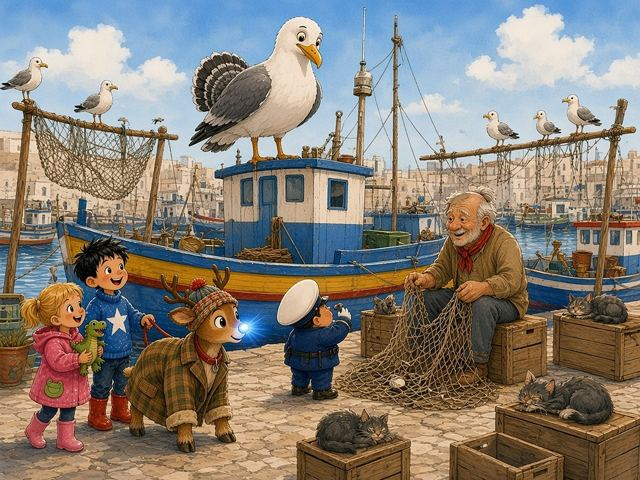
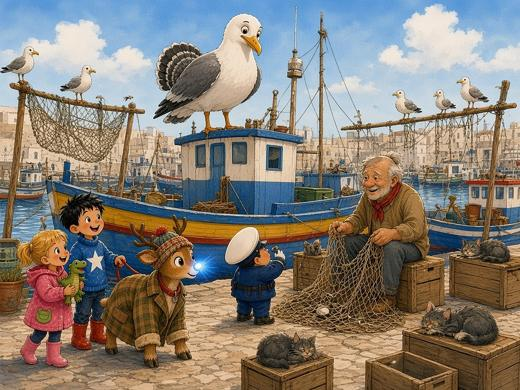
14 livelli, uno per ogni capitolo del libro

diff --git a/gioco.js b/gioco.js
@@ -19,8 +19,8 @@ window.addEventListener('resize', resize); resize();
 
 // ---------- immagini ----------
 const IMG = {};
-const SRC = { bri: 'assets/briciola.png', gab: 'assets/gabbiano.png', sli: 'assets/slitta.png', cop: 'assets/copertina.jpg',
-  c1: 'assets/cap06.jpg', c2: 'assets/cap07.jpg', c3: 'assets/cap13.jpg' };
+const SRC = { bri: 'assets/briciola.png', gab: 'assets/gabbiano.png', sli: 'assets/slitta.png', cop: 'assets/copertina.jpg' };
+for (let i = 1; i <= 14; i++) SRC['c' + i] = 'assets/cap' + String(i).padStart(2, '0') + '.jpg';
 let loaded = 0; const total = Object.keys(SRC).length;
 for (const k in SRC) { const im = new Image(); im.onload = im.onerror = () => loaded++; im.src = SRC[k]; IMG[k] = im; }
 const ok = im => im && im.complete && im.naturalWidth > 0;
@@ -97,21 +97,58 @@ function wrap(s, maxW, size, weight = 'normal') {
 }
 
 // ---------- livelli ----------
+const LETTERE = {
+  lalla: { from: 'Un foglietto a righe', body: 'Caro Babbo Natale, caro Babbo Natale,\nun amico dinosauro per Gino. Per Gino.\nLalla, 5 anni (5 anni)' },
+  pasq: { from: 'Una lettera ingiallita', body: 'Caro Babbo Natale,\nvorrei un campanello per la mia bicicletta, così tutti mi sentono arrivare.\nPasqualino, 7 anni' },
+  bri: { from: 'Un biglietto scritto con uno zoccolo', body: 'Dall’ultimo posto a sinistra si vede tutto il mondo.\nStanotte guarderò la tua casa.\nLa tua amica Briciola' }
+};
+// un livello per ogni capitolo del libro
 const LEVELS = [
-  { name: 'Il porto', num: 1, img: 'c1', len: 5200, speed: 150, mode: 'day', gulls: 3, roof: [110, 190], chim: 0.55,
-    intro: 'Briciola è caduta a Torre Pinella e ha perso il sonaglio. Aiutala a volare sopra il porto: prendi le risate per far suonare il sonaglio e le cartellate del nonno. Attenta all’Ammiraglio e ai comignoli!',
-    letter: { from: 'Una lettera ingiallita', body: 'Caro Babbo Natale,\nvorrei un campanello per la mia bicicletta, così tutti mi sentono arrivare.\nPasqualino, 7 anni' },
+  { name: 'Un tonfo sulla pasticceria', mode: 'night', ground: 'case', gulls: 0, chim: 0.45, speed: 140,
+    intro: 'È la notte del 19 dicembre. Briciola fa il suo primo volo con la slitta… e cade! Prima del tonfo, prova a volare un po’ sopra i tetti di Torre Pinella.',
+    quote: '«Mi scusi tanto per il disturbo» disse Briciola. «Sono caduta.»' },
+  { name: 'Non è un cane', mode: 'night', ground: 'case', gulls: 0, chim: 0.5, speed: 145,
+    intro: 'Briciola ha il singhiozzo: ogni «hic!» la fa salire. Prendi le risate di Lalla e non svegliare tutto il paese!',
+    quote: '«È un cane» sussurrò Lalla. «È un cane.»' },
+  { name: 'Nonno Tonino non ci sente', mode: 'night', ground: 'case', gulls: 0, chim: 0.55, speed: 150,
+    intro: 'Il nonno ha scoperto tutto, ma fa finta di niente. Raccogli le cartellate: Briciola ne va matta!',
+    quote: 'Il nonno Tonino diventò improvvisamente sordo dall’orecchio sinistro.' },
+  { name: 'Il sonaglio perduto', mode: 'day', ground: 'case', gulls: 1, chim: 0.55, speed: 150,
+    intro: 'Il sonaglio è sparito! Cerca tra i tetti al sole. La signora Addolorata guarda tutto col binocolo…',
+    quote: '«Poi è arrivato l’Ammiraglio, e se l’è preso.»' },
+  { name: 'Un cane molto, molto grosso', mode: 'day', ground: 'case', gulls: 1, chim: 0.6, speed: 155, letter: 'lalla',
+    intro: 'Briciola è travestita da cane, con il cappotto dello zio Peppino. Attraversa il paese senza farti scoprire dal vigile Spinaci!',
+    quote: '«BAU» disse Briciola. Il vigile Spinaci non era per niente convinto.' },
+  { name: 'Il gabbiano che rubava le stelle', mode: 'day', ground: 'molo', gulls: 4, chim: 0.4, speed: 155,
+    intro: 'Al porto ci sono tanti gabbiani. Uno è grosso come un tacchino: è l’Ammiraglio! Stagli lontano.',
     quote: '«È lui» disse Briciola. «Lo sento. Ha qualcosa che mi appartiene.»' },
-  { name: 'Il campanile storto', num: 2, img: 'c2', len: 5600, speed: 165, mode: 'sunset', gulls: 5, roof: [130, 220], chim: 0.7,
-    intro: 'Il nido dell’Ammiraglio è in cima al campanile storto. Vola tra i tetti bianchi, i comignoli e i campanili. Più risate prendi, più il sonaglio fa tin!',
-    letter: { from: 'Un foglietto a righe', body: 'Caro Babbo Natale, caro Babbo Natale,\nun amico dinosauro per Gino. Per Gino.\nLalla, 5 anni (5 anni)' },
+  { name: 'Su per il campanile', mode: 'day', ground: 'case', towers: true, gulls: 4, chim: 0.5, speed: 160,
+    intro: 'Il nido dell’Ammiraglio è in cima al campanile storto. Vola tra i campanili e i comignoli!',
     quote: '«L’avete cacciato!» disse zi’ Nunzio. «In quarant’anni, nessuno ci era mai riuscito!»' },
-  { name: 'Mezzanotte sul molo', num: 3, img: 'c3', len: 5000, speed: 175, mode: 'night', gulls: 3, roof: [0, 0], chim: 0.5,
-    intro: 'È la notte della Vigilia. Tutto il paese è sul molo e la slitta di Babbo Natale sta arrivando. Prendi le ultime risate e porta Briciola al suo posto: l’ultimo a sinistra!',
-    letter: { from: 'Un biglietto scritto con uno zoccolo', body: 'Dall’ultimo posto a sinistra si vede tutto il mondo.\nStanotte guarderò la tua casa.\nLa tua amica Briciola' },
+  { name: 'Una telefonata dai Caraibi', mode: 'sunset', ground: 'case', gulls: 2, chim: 0.6, speed: 160,
+    intro: 'Stasera torna la mamma dal mare. Il cielo è rosa: raccogli le risate prima che faccia buio.',
+    quote: '«Tutto bene» disse Nico. «Non fa niente.»' },
+  { name: 'Il pesce più strano del mercato', mode: 'day', ground: 'molo', gulls: 4, chim: 0.45, speed: 165,
+    intro: 'È la mattina del mercato del pesce. Il sonaglio è da qualche parte sulla banchina…',
+    quote: '«I cani» disse il vigile Spinaci «non portano i campanelli da bicicletta.»' },
+  { name: 'Il presepe vivente più vivente del mondo', mode: 'night', ground: 'case', towers: true, gulls: 1, chim: 0.5, speed: 165,
+    intro: 'Briciola fa l’asinello nel presepe vivente. Se le viene il singhiozzo, vola davanti a tutti!',
+    quote: 'I bambini ridevano, e il sonaglio, sulla bicicletta del vigile, suonò da solo.' },
+  { name: 'Il segreto del vigile Spinaci', mode: 'day', ground: 'case', gulls: 2, chim: 0.6, speed: 170, letter: 'pasq',
+    intro: 'Il vigile ha un segreto, scritto in una vecchia lettera. Trovala tra i tetti!',
+    quote: 'Poi, per la prima volta in cinquant’anni, il vigile Spinaci rise.' },
+  { name: 'Il sonaglio che non suona', mode: 'sunset', ground: 'case', gulls: 2, chim: 0.65, speed: 170,
+    intro: 'Il sonaglio è tornato, ma è addormentato. Servono tante, tantissime risate!',
+    quote: '«Piangere» disse il nonno «è come impastare. E lievita sempre di notte.»' },
+  { name: 'Mezzanotte sul molo', mode: 'night', ground: 'molo', gulls: 3, chim: 0.5, speed: 175, letter: 'bri', finale: true,
+    intro: 'È la notte della Vigilia. Tutto il paese è sul molo e la slitta di Babbo Natale sta arrivando. Porta Briciola al suo posto: l’ultimo a sinistra!',
+    quote: '«Ogni Vigilia, a mezzanotte, guarda il mare. Ci sarà una luce azzurra, all’ultimo posto a sinistra.»' },
+  { name: 'Farina sulle spalle', mode: 'dawn', ground: 'case', gulls: 0, chim: 0.4, speed: 150, last: true,
+    intro: 'È la mattina di Natale e Torre Pinella è bianca di zucchero a velo. Un ultimo volo, per salutare tutti!',
     quote: '' }
 ];
-const BELL_TARGET = 40;
+LEVELS.forEach((l, i) => { l.roof = l.towers ? [130, 220] : [110, 195]; l.num = i + 1; l.img = 'c' + (i + 1); l.len = 2600 + (i % 3) * 200; l.letterObj = l.letter ? LETTERE[l.letter] : null; });
+const BELL_TARGET = 120;
 
 // ---------- stato ----------
 let state = 'loading', L = null, LI = 0, tWorld = 0, dist = 0, time = 0, timeScale = 1;
@@ -133,19 +170,19 @@ function buildLevel() {
   let x = -200;
   while (x < L.len + 2000) {
     const w = 90 + R() * 90;
-    if (L.mode === 'night') { houses.push({ x, w, h: 118, molo: true }); }
+    if (L.ground === 'molo') { houses.push({ x, w, h: 118, molo: true }); }
     else {
       const h = L.roof[0] + R() * (L.roof[1] - L.roof[0]);
-      const tower = L.mode === 'sunset' && x > 900 && R() < 0.07 && !houses.some(o => o.tower && x - o.x < 1200);
+      const tower = L.towers && x > 700 && R() < 0.07 && !houses.some(o => o.tower && x - o.x < 1200);
       houses.push({ x, w: tower ? 90 : w, h: tower ? 380 + R() * 30 : h, dome: !tower && R() < 0.18, tower, win: Math.floor(R() * 3), door: R() < 0.6, ger: R() < 0.4, col: R() < 0.5 ? '#2f74b5' : '#3c9a6a', R: R() });
     }
-    x += (houses[houses.length - 1].w) + (L.mode !== 'night' && R() < 0.25 ? 20 + R() * 30 : 0);
+    x += (houses[houses.length - 1].w) + (L.ground !== 'molo' && R() < 0.25 ? 20 + R() * 30 : 0);
   }
   // comignoli / lampioni
   for (const h of houses) {
     if (h.x < 500 || h.x > L.len - 200 || h.tower) continue;
     if (R() < L.chim) {
-      if (L.mode === 'night') chims.push({ x: h.x + h.w * (0.2 + R() * 0.6), w: 14, top: H - h.h - 120 - R() * 70, lamp: true });
+      if (L.ground === 'molo') chims.push({ x: h.x + h.w * (0.2 + R() * 0.6), w: 14, top: H - h.h - 120 - R() * 70, lamp: true });
       else chims.push({ x: h.x + 15 + R() * (h.w - 50), w: 30, top: H - h.h - 45 - R() * 75, base: H - h.h, lamp: false });
     }
   }
@@ -155,7 +192,7 @@ function buildLevel() {
   let letterPlaced = false;
   while (ix < L.len - 150) {
     const yPath = 300 + Math.sin(ix / 420 + LI) * 120 + Math.sin(ix / 157) * 30;
-    if (!letterPlaced && ix > letterAt) { items.push({ x: ix, y: clamp(yPath - 40, 170, 430), t: 'lettera', r: 26, got: false }); letterPlaced = true; ix += 160; continue; }
+    if (L.letterObj && !letterPlaced && ix > letterAt) { items.push({ x: ix, y: clamp(yPath - 40, 170, 430), t: 'lettera', r: 26, got: false }); letterPlaced = true; ix += 160; continue; }
     const kind = (k % 4 === 3) ? 'cart' : 'risata';
     const n = kind === 'risata' ? 3 : 1;
     for (let j = 0; j < n; j++) items.push({ x: ix + j * 58, y: clamp(yPath + (j - 1) * 12, 160, safeYAt(ix + j * 58) - 40), t: kind, r: kind === 'cart' ? 22 : 20, got: false });
@@ -200,6 +237,7 @@ function update(dt) {
   for (const p of pops) { p.t += dt; p.y -= 40 * dt; }
   pops = pops.filter(p => p.t < 1.1);
   if (state === 'ending') { updSnow(dt, 1); finale.t += dt; finale.x -= 140 * dt; finale.y -= 30 * dt; return; }
+  if (state === 'play' && L && L.mode === 'dawn') updSnow(dt, 0.6);
   if (state !== 'play' || overlay) return;
   bri.x = W * 0.3;
   if (bri.noseT > 0) { bri.noseT -= dt; if (bri.noseT <= 0) bri.nose = 'base'; }
@@ -237,8 +275,9 @@ function update(dt) {
     if (!g.hit && bri.hurt <= 0) { const dx = g.sx - bri.x, dy = g.yy - bri.y; if (dx * dx + dy * dy < 50 * 50) steal(g); }
   }
   if (dist >= L.len) {
-    if (LI < 2) { state = 'play'; overlay = { type: 'level' }; SFX.fanfare(); }
-    else { endPhase = 'molo'; endT = 0; }
+    if (L.finale) { endPhase = 'molo'; endT = 0; }
+    else if (L.last) { state = 'ending'; finale = { t: 0 }; SFX.fanfare(); }
+    else { state = 'play'; overlay = { type: 'level' }; SFX.fanfare(); }
   }
 }
 function bump(msg) {
@@ -263,7 +302,7 @@ function collect(it, ix) {
     cart++; score += 25; setNose('oro', 1.5); SFX.gnam();
     pops.push({ x: ix, y: it.y - 24, s: 'gnam!', t: 0, c: '#ffcf6b' });
   } else if (it.t === 'lettera') {
-    lettere++; score += 100; SFX.letter(); overlay = { type: 'letter', L: L.letter };
+    lettere++; score += 100; SFX.letter(); overlay = { type: 'letter', L: L.letterObj };
   }
 }
 function updEnd(dt) {
@@ -302,7 +341,7 @@ function updEnd(dt) {
     updSnow(dt, 1);
     sleigh.x -= 60 * dt * endT * 3; sleigh.y -= 40 * dt * endT * 2;
     bri.x = sleigh.gx = sleigh.x + 405 * sleigh.s; bri.y = sleigh.gy = sleigh.y + 172 * sleigh.s - 6; bri.s = sleigh.s * 0.6;
-    if (endT > 3.2) { state = 'ending'; finale = { t: 0, x: sleigh.x, y: sleigh.y, s: sleigh.s }; }
+    if (endT > 3.2) { overlay = { type: 'level' }; }
   }
 }
 function updSnow(dt, k) {
@@ -316,6 +355,7 @@ function sky() {
   const g = ctx.createLinearGradient(0, 0, 0, H);
   if (m === 'day') { g.addColorStop(0, '#5fb3e8'); g.addColorStop(0.6, '#bfe6fb'); g.addColorStop(1, '#eaf7ff'); }
   else if (m === 'sunset') { g.addColorStop(0, '#5a5ea8'); g.addColorStop(0.35, '#e58ba0'); g.addColorStop(0.7, '#ffc58a'); g.addColorStop(1, '#ffe7c4'); }
+  else if (m === 'dawn') { g.addColorStop(0, '#9fb8e8'); g.addColorStop(0.45, '#f7c3b0'); g.addColorStop(1, '#fff3df'); }
   else { g.addColorStop(0, '#070d2e'); g.addColorStop(0.6, '#1b2a63'); g.addColorStop(1, '#2c3d7a'); }
   ctx.fillStyle = g; ctx.fillRect(0, 0, W, H);
   if (m === 'night' || m === 'sunset') {
@@ -327,7 +367,7 @@ function sky() {
 }
 function cloud(x, y, s) { ctx.beginPath(); ctx.arc(x, y, 26 * s, 0, 7); ctx.arc(x + 30 * s, y - 14 * s, 32 * s, 0, 7); ctx.arc(x + 64 * s, y, 24 * s, 0, 7); ctx.rect(x, y, 64 * s, 24 * s); ctx.fill(); }
 function farLayer() {
-  const m = L.mode; const seaY = H - 230;
+  const m = L.mode === 'dawn' ? 'day' : L.mode; const seaY = H - 230;
   // mare
   const g = ctx.createLinearGradient(0, seaY, 0, H);
   if (m === 'day') { g.addColorStop(0, '#2a8fc4'); g.addColorStop(1, '#1b6ea3'); }
@@ -355,7 +395,7 @@ function boat(x, y, c) {
   ctx.fillStyle = '#fff'; ctx.fillRect(x + 24, y - 14 + b, 22, 14); ctx.fillStyle = '#5a4630'; ctx.fillRect(x + 34, y - 40 + b, 2, 26);
 }
 function nearLayer() {
-  const m = L.mode;
+  const m = L.mode === 'dawn' ? 'day' : L.mode; const sugar = L.mode === 'dawn';
   for (const h of houses) {
     const x = h.x - dist; if (x > W + 20 || x + h.w < -20) continue;
     const top = H - h.h;
@@ -375,6 +415,7 @@ function nearLayer() {
     }
     ctx.fillStyle = wall; ctx.fillRect(x, top, h.w + 1, h.h); ctx.fillStyle = side; ctx.fillRect(x + h.w - 12, top, 12, h.h);
     ctx.fillStyle = m === 'night' ? '#aab3d8' : '#efe7d6'; ctx.fillRect(x - 3, top - 6, h.w + 6, 8);
+    if (sugar) { ctx.fillStyle = '#ffffff'; rr(x - 5, top - 12, h.w + 10, 12, 6); ctx.fill(); }
     if (h.dome) { ctx.fillStyle = wall; ctx.beginPath(); ctx.arc(x + h.w / 2, top - 4, h.w * 0.28, Math.PI, 0); ctx.fill(); }
     const lit = m === 'night' || m === 'sunset';
     for (let i = 0; i <= h.win; i++) { const wx = x + 16 + i * 30; if (wx > x + h.w - 30) break; ctx.fillStyle = lit && (i + Math.floor(h.R * 5)) % 2 === 0 ? '#ffd27a' : h.col; rr(wx, top + 24, 16, 20, 7); ctx.fill(); }
@@ -456,7 +497,7 @@ function hud() {
   ctx.fillStyle = g; rr(bx, 56, Math.max(16, bw * bell / BELL_TARGET), 16, 8); ctx.fill();
   text('Sonaglio', bx + 8, 64, 11, '#1f3a7a', 'left', 'bold');
   bellIcon(W - 40, 62, bellRing);
-  text('Livello ' + L.num + ': ' + L.name, 16, 108, 15, '#fff', 'left', 'bold', 'rgba(10,20,60,0.7)', 4);
+  text(L.num + '. ' + L.name, 16, 150, 14, '#fff', 'left', 'bold', 'rgba(10,20,60,0.7)', 4);
   iconButton(W - 52, 94, 40, 'mute', () => setMuted(!muted));
   iconButton(W - 100, 94, 40, 'restart', () => { newGame(); });
 }
@@ -511,7 +552,7 @@ function scene() {
   if (sleigh) drawSleigh(sleigh, endPhase === 'away');
   drawBri(bri.x, bri.y, bri.ang, endPhase === 'away', bri.s || 0.5);
   drawParticles();
-  if (endPhase === 'away') drawSnow();
+  if (endPhase === 'away' || L.mode === 'dawn') drawSnow();
   if (flash > 0) { ctx.fillStyle = `rgba(120,170,255,${flash})`; ctx.fillRect(0, 0, W, H); }
 }
 function crowd() {
@@ -539,13 +580,13 @@ function titleScreen() {
   text('Un gioco di Natale', W / 2, py + 86, 18, '#1f3a7a', 'center', 'bold');
   text('dal libro di Antonino Campanella', W / 2, py + 110, 17, '#1f3a7a', 'center', 'normal');
   bigButton('Gioca!', W / 2, py + 165, 220, () => { audioInit(); newGame(); });
-  let ty = py + 218; for (const l of wrap('Tocca lo schermo (o premi spazio): Briciola fa «hic!» e vola su. Niente pubblicità, niente dati: solo Natale.', Math.min(400, W - 28) - 50, 14)) { text(l, W / 2, ty, 14, '#444', 'center', 'normal'); ty += 19; }
+  let ty = py + 218; for (const l of wrap('14 capitoli, 14 voli. Tocca lo schermo (o premi spazio): Briciola fa «hic!» e vola su. Niente pubblicità, niente dati.', Math.min(400, W - 28) - 50, 14)) { text(l, W / 2, ty, 14, '#444', 'center', 'normal'); ty += 19; }
   iconButton(W - 52, 14, 40, 'mute', () => setMuted(!muted));
 }
 function introScreen() {
   scene(); ctx.fillStyle = 'rgba(8,14,45,0.55)'; ctx.fillRect(0, 0, W, H);
   const pw = Math.min(420, W - 28), px = W / 2 - pw / 2, py = 70, ph = H - 140; panel(px, py, pw, ph);
-  text('Livello ' + L.num + ' di 3', W / 2, py + 40, 18, '#2e8b47');
+  text('Capitolo ' + L.num + ' di 14', W / 2, py + 40, 18, '#2e8b47');
   text(L.name, W / 2, py + 76, 32, '#d6283b');
   const im = IMG[L.img]; if (ok(im)) { const iw = pw - 60, ih = iw * im.naturalHeight / im.naturalWidth; const h2 = Math.min(ih, 240), w2 = h2 * im.naturalWidth / im.naturalHeight; ctx.save(); rr(W / 2 - w2 / 2, py + 102, w2, h2, 14); ctx.clip(); ctx.drawImage(im, W / 2 - w2 / 2, py + 102, w2, h2); ctx.restore(); }
   const lines = wrap(L.intro, pw - 60, 18); let y = py + 370;
@@ -565,7 +606,7 @@ function letterOverlay() {
 function levelOverlay() {
   ctx.fillStyle = 'rgba(8,14,45,0.55)'; ctx.fillRect(0, 0, W, H);
   const pw = Math.min(400, W - 28), px = W / 2 - pw / 2, py = 150, ph = 470; panel(px, py, pw, ph);
-  text('Livello superato!', W / 2, py + 50, 32, '#d6283b');
+  text('Capitolo superato!', W / 2, py + 50, 30, '#d6283b');
   text(L.name, W / 2, py + 88, 20, '#2e8b47');
   text('★ ' + score + ' punti', W / 2, py + 140, 26, '#c9781e');
   text('Risate: ' + risate + '   Cartellate: ' + cart + '   Lettere: ' + lettere + '/3', W / 2, py + 180, 16, '#333', 'center', 'normal');
@@ -574,7 +615,7 @@ function levelOverlay() {
 }
 function endingScreen() {
   // notte, slitta che si allontana, neve di zucchero a velo
-  L = LEVELS[2]; sky(); farLayer(); nearLayer();
+  L = LEVELS[12]; sky(); farLayer(); nearLayer();
   ctx.save(); const s = Math.min(0.5, W / 900);
   const span = W + 720 * s + 40, fx = W + 20 - ((finale.t * 80) % span), fy = 50 + Math.sin(finale.t * 1.3) * 10;
   if (ok(IMG.sli)) ctx.drawImage(IMG.sli, fx, fy, 720 * s, 239 * s);
@@ -583,7 +624,7 @@ function endingScreen() {
   drawSnow();
   const pw = Math.min(420, W - 28), px = W / 2 - pw / 2, py = 205, ph = 530; panel(px, py, pw, ph);
   text('Ce l’hai fatta!', W / 2, py + 48, 36, '#d6283b');
-  const l1 = wrap('Briciola è tornata al suo posto: l’ultimo a sinistra. E su Torre Pinella nevica zucchero a velo.', pw - 60, 18);
+  const l1 = wrap('Hai volato per tutti i 14 capitoli! Briciola è tornata al suo posto, l’ultimo a sinistra, e su Torre Pinella nevica zucchero a velo.', pw - 60, 18);
   let y = py + 94; for (const l of l1) { text(l, W / 2, y, 18, '#1f3a7a', 'center', 'normal'); y += 25; }
   text('★ ' + score + ' punti', W / 2, y + 22, 30, '#c9781e'); y += 60;
   text('Risate: ' + risate + '   Cartellate: ' + cart + '   Lettere: ' + lettere + '/3', W / 2, y, 16, '#333', 'center', 'normal'); y += 40;

diff --git a/README.md b/README.md
@@ -2,7 +2,7 @@
 
 Un mini gioco di Natale per bambini (5-10 anni) tratto dal libro **«Aiuto, è caduta una renna!»** di Antonino Campanella.
 
-Guida Briciola, la piccola renna apprendista, nel cielo sopra Torre Pinella. Raccogli le risate per far suonare il sonaglio, prendi le cartellate del nonno, trova le lettere perdute e stai lontano dall'Ammiraglio e dai comignoli. Poi riporta Briciola al suo posto sulla slitta di Babbo Natale: l'ultimo a sinistra.
+Guida Briciola, la piccola renna apprendista, nel cielo sopra Torre Pinella, in 14 livelli brevi, uno per ogni capitolo del libro. Raccogli le risate per far suonare il sonaglio, prendi le cartellate del nonno, trova le lettere perdute e stai lontano dall'Ammiraglio e dai comignoli. Poi riporta Briciola al suo posto sulla slitta di Babbo Natale: l'ultimo a sinistra.
 
 - Si gioca qui: https://anto86nino-svg.github.io/briciola-vola/
 - Comandi: tocca lo schermo, oppure premi spazio o la freccia su, e Briciola fa «hic!» e vola.
